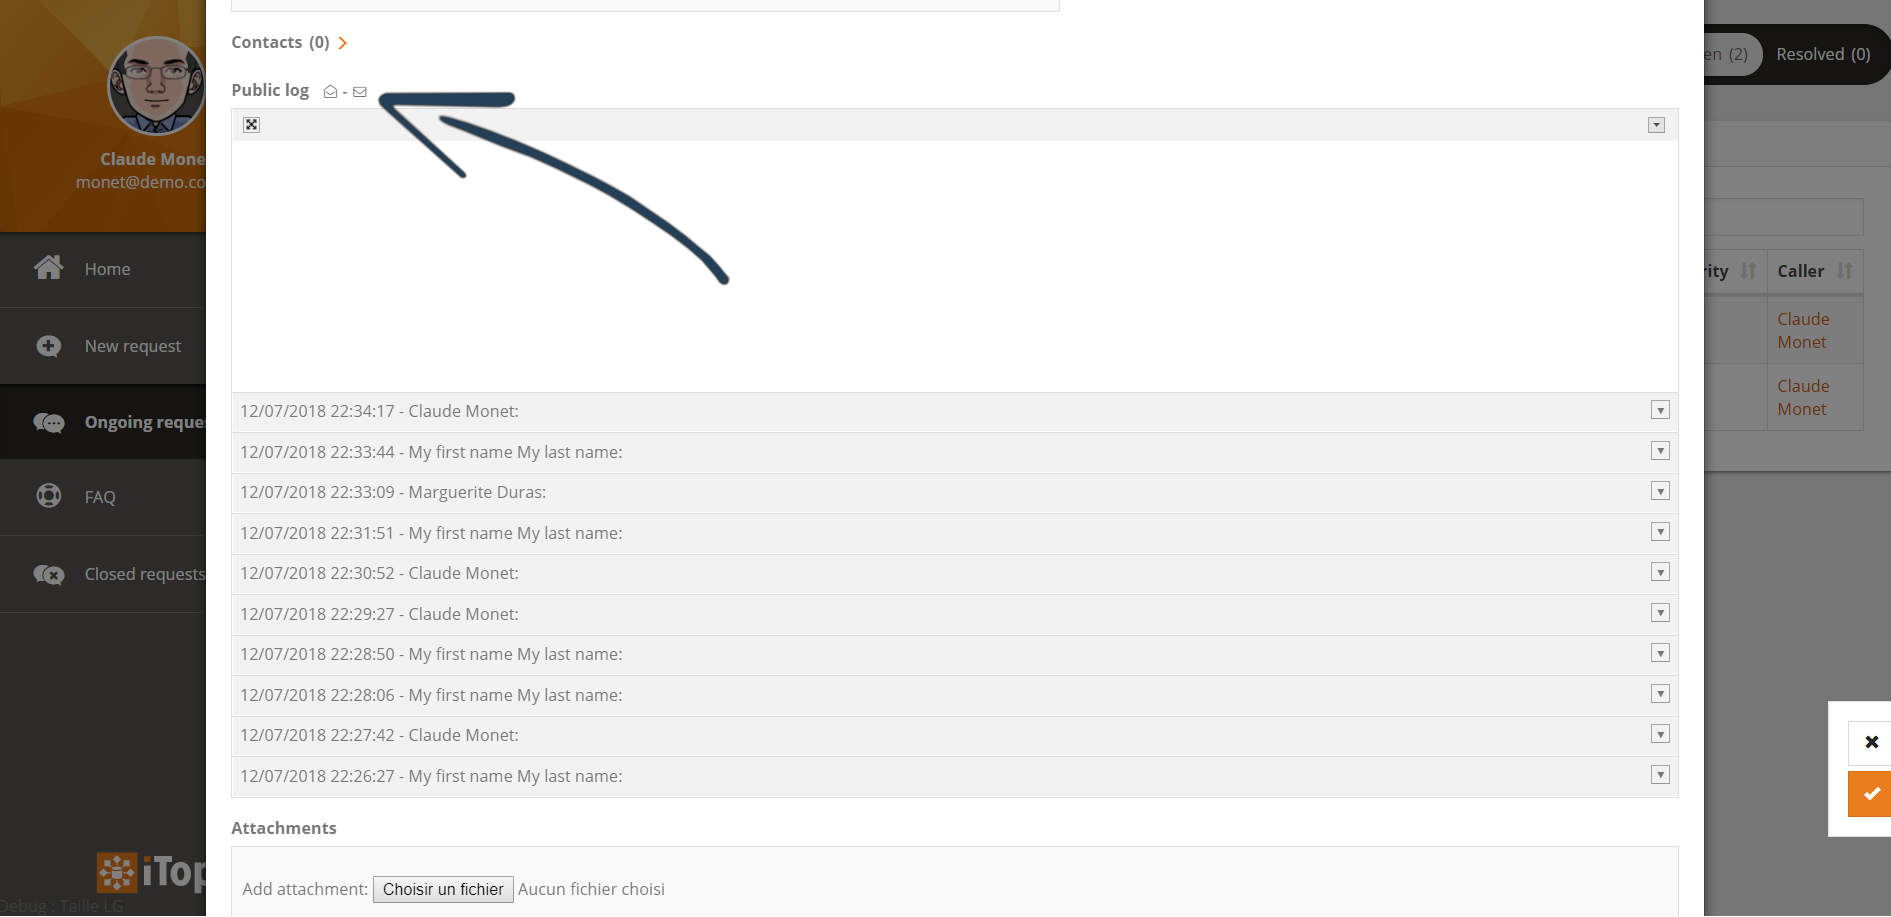
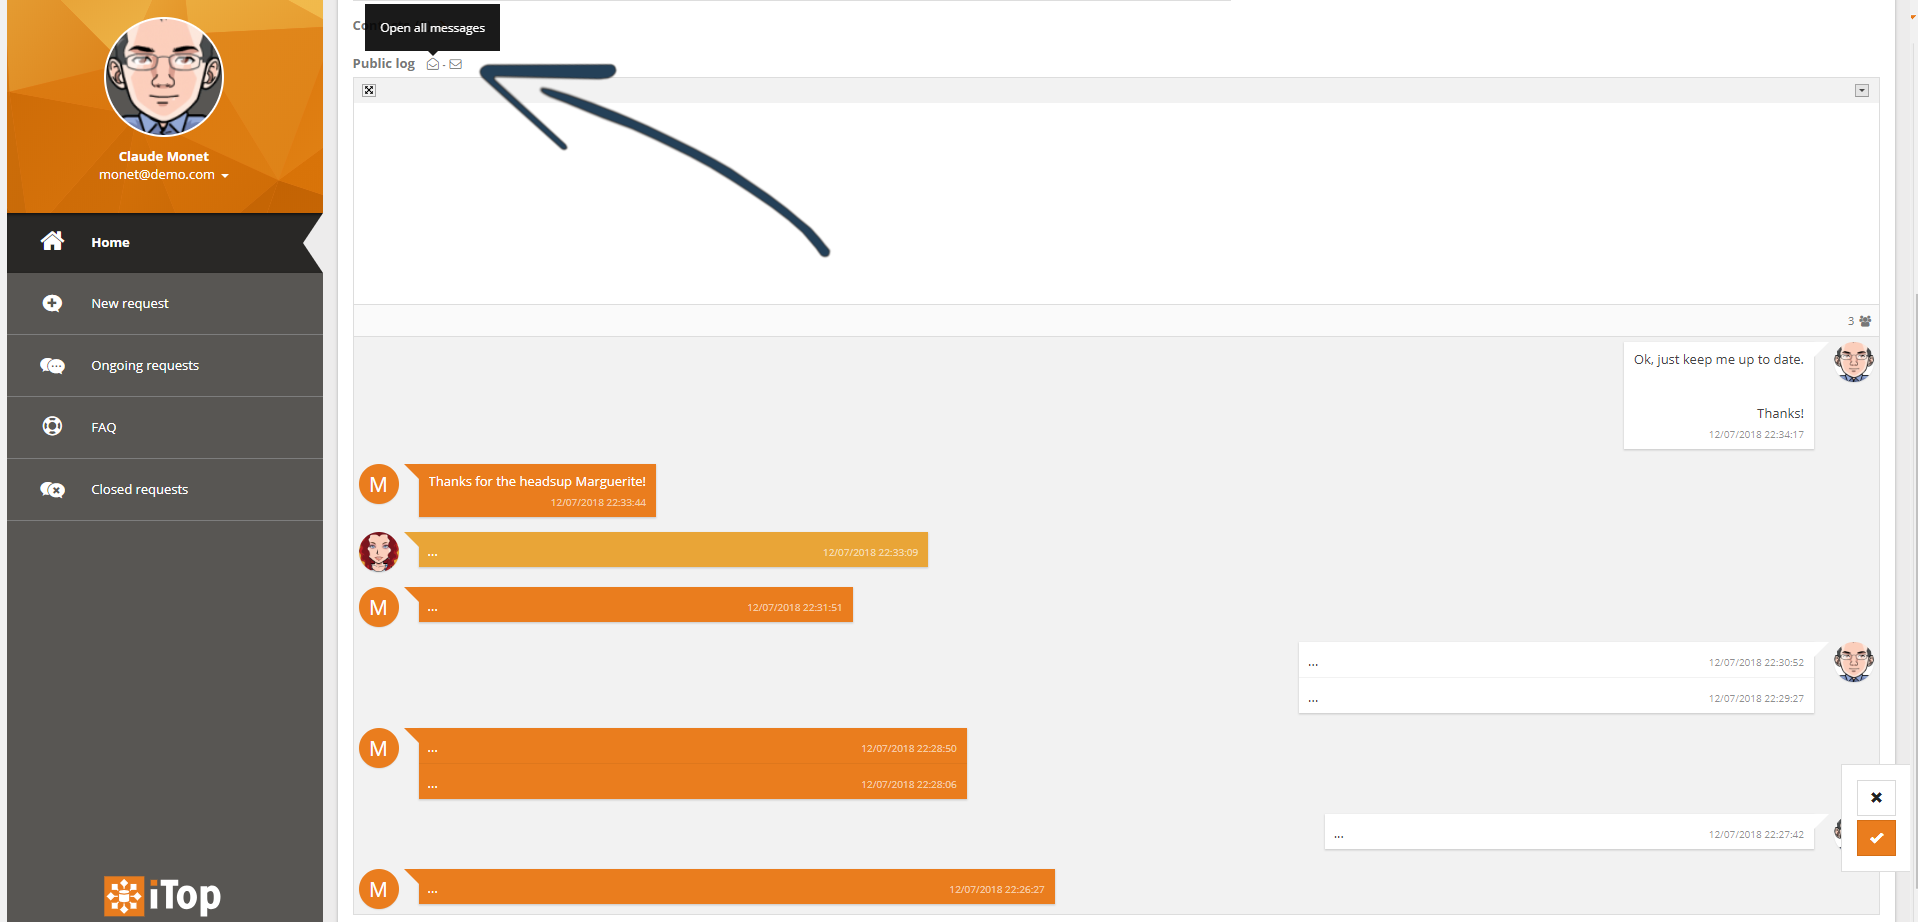
Update documentation

diff --git a/README.md b/README.md
@@ -5,6 +5,8 @@ Have a better user experience with caselogs by being able to open / close all en
 
 This extension simply adds 2 buttons next to the caselog title, in both the console & portal.
 
+*Note: Screenshots feature the **Bubble caselogs** extension ()which changes the caselog entries look & feel) but is not part of this one.*
+
 ![Description decoration](https://raw.githubusercontent.com/Molkobain/itop-caselogs-toggler/master/docs/mct-portal-example-01.PNG)
 
 ![Description decoration](https://raw.githubusercontent.com/Molkobain/itop-caselogs-toggler/master/docs/mct-portal-example-02.PNG)
